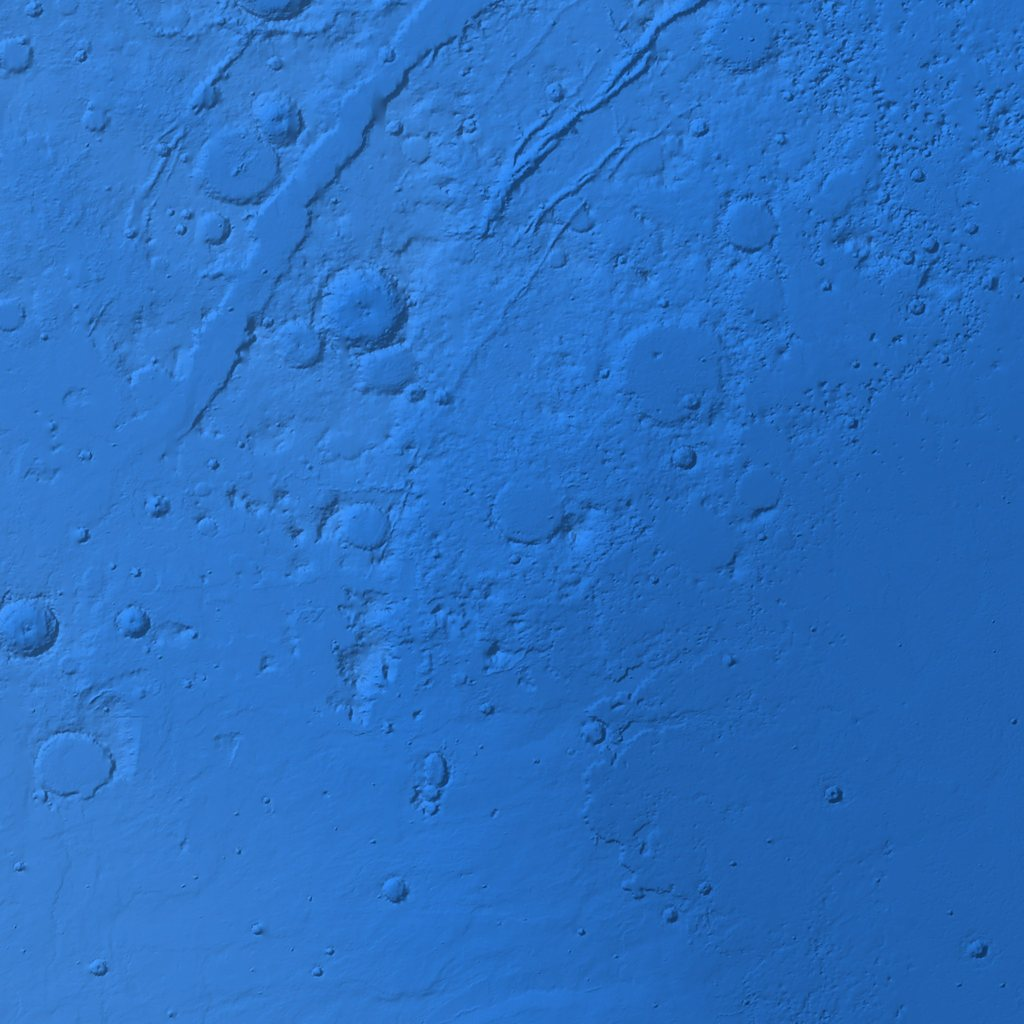
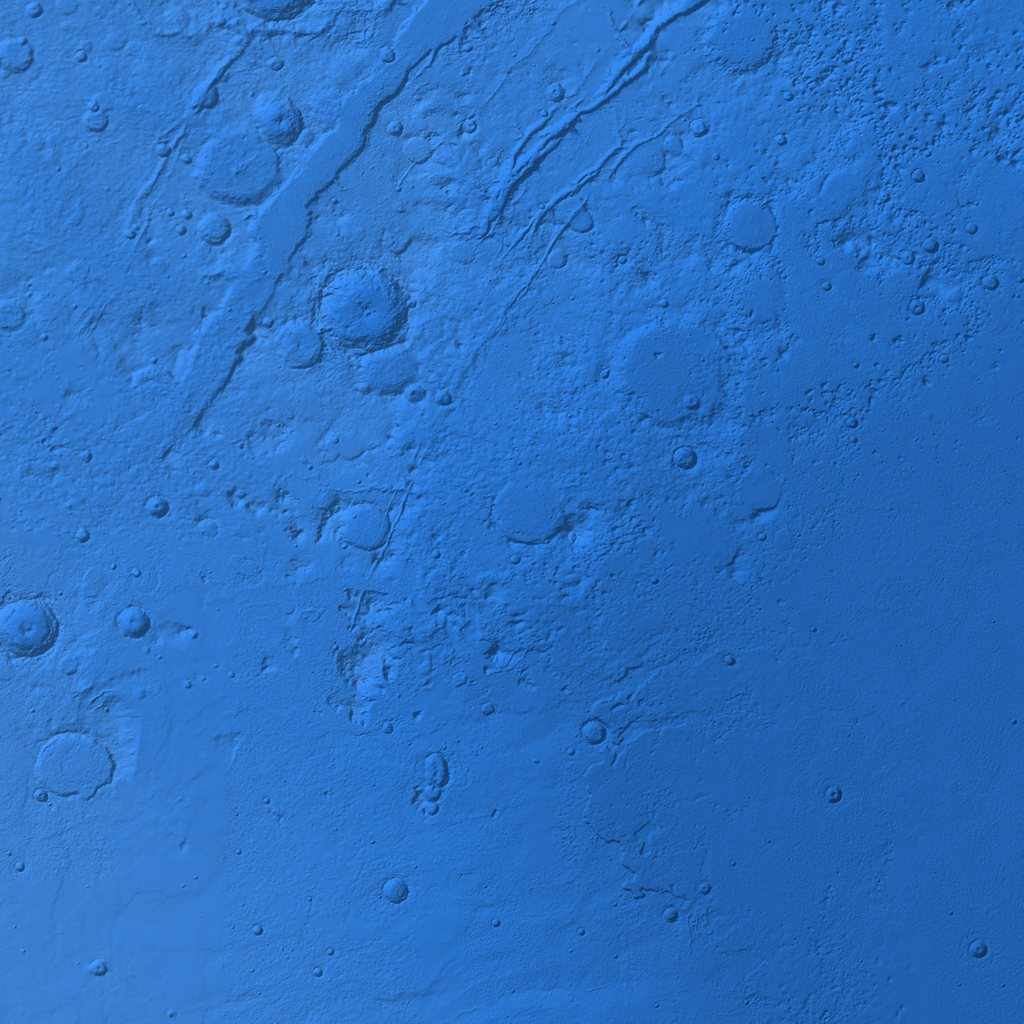
Add ESA Mars Express HRSC relief around Jezero
The regional relief and elevation colours on the globe (the 12 x 12 deg
patch around Jezero and Isidis) now come from the USGS HRSC and MOLA
blended DEM v2 (200 m), which merges ESA Mars Express HRSC stereo DTMs
with MOLA, instead of MOLA alone (463 m). This adds a Space Agency
Partner dataset, which the NASA data usage criterion rewards.

Credited in DATA SOURCES, the layer panel, the README and the
submission data list.

Claude-Session: https://claude.ai/code/session_0141tgXk4JrBNUmJF1bHN5ER

diff --git a/src/ui/hud.js b/src/ui/hud.js
@@ -201,7 +201,7 @@ export class Hud {
           <span class="k">Centre</span><span class="v">18.40°N 77.60°E</span>
           <span class="k">Diameter</span><span class="v">≈ 45 km</span>
           <span class="k">Region</span><span class="v">Isidis Planitia rim</span>
-          <span class="k">Datasets</span><span class="v">7 layers · 5 missions</span>
+          <span class="k">Datasets</span><span class="v">7 layers · 6 missions</span>
         </div>
         <div class="btn-row"><button class="btn primary" id="btn-descend">▼ Descend to Jezero</button></div>
       </div>
@@ -265,7 +265,7 @@ export class Hud {
   orbitLegend(layer) {
     const L = $('orbit-legend');
     if (!L) return;
-    if (layer === 'topo') L.innerHTML = legendRamp('Elevation (MOLA, m)', 'linear-gradient(90deg,#0d366b,#184f95,#2a78d6,#5598e7,#9ec5f4,#eef6ff)', ['−8,200', '0', '+21,200']);
+    if (layer === 'topo') L.innerHTML = legendRamp('Elevation (MOLA; HRSC near Jezero, m)', 'linear-gradient(90deg,#0d366b,#184f95,#2a78d6,#5598e7,#9ec5f4,#eef6ff)', ['−8,200', '0', '+21,200']);
     else if (layer === 'thermal') L.innerHTML = legendRamp('Night-time IR brightness (relative)', 'linear-gradient(90deg,#3a1a06,#7a3510,#c05a1c,#ec8a45,#f9c79a,#fff0e0)', ['cools fast · dust', 'stays warm · rock']);
     else L.innerHTML = '<div class="legend"><div class="cap muted">Viking Orbiter mosaic, colour by NASA Ames. Seasonal frost shows at the poles.</div></div>';
   }
@@ -545,11 +545,12 @@ export class Hud {
   showSources() {
     $('modal-body').innerHTML = `
       <h2>DATA SOURCES & CREDITS</h2>
-      <p>Everything in Sol Atlas is real mission data. Nothing is hand-painted. Files were pulled from the public USGS Astrogeology archive (<code>asc-pds-services</code>) and processed by <code>scripts/build_data.py</code>.</p>
+      <p>Everything in Sol Atlas is real mission data, from NASA plus ESA's Mars Express. Nothing is hand-painted. Files were pulled from the public USGS Astrogeology archive (<code>asc-pds-services</code>) and processed by <code>scripts/build_data.py</code>.</p>
       <h3>ORBIT VIEW</h3>
       <table><tr><th>LAYER</th><th>MISSION / INSTRUMENT</th><th>PRODUCT</th></tr>
         <tr><td>Visible colour</td><td>Viking Orbiter 1 & 2</td><td>MDIM 2.1 global mosaic, recoloured by NASA Ames (232 m)</td></tr>
         <tr><td>Topography / relief</td><td>Mars Global Surveyor · MOLA</td><td>MOLA 128/64 ppd merged DEM (463 m)</td></tr>
+        <tr><td>Relief around Jezero and Isidis (zoomed in)</td><td>ESA Mars Express · HRSC, with MGS MOLA</td><td>HRSC and MOLA blended DEM v2, 200 m (USGS; HRSC data ESA/DLR/FU Berlin)</td></tr>
         <tr><td>Night thermal IR</td><td>Mars Odyssey · THEMIS</td><td>USGS controlled night-IR mosaic v2 (100 m)</td></tr></table>
       <h3>JEZERO CRATER</h3>
       <table><tr><th>LAYER</th><th>MISSION / INSTRUMENT</th><th>PRODUCT</th></tr>

diff --git a/src/core/assets.js b/src/core/assets.js
@@ -11,8 +11,8 @@ const TEXTURES = [
   ['g_topo', 'g_topo_4k.jpg', 'srgb', 'MGS MOLA hypsometric scan'],
   ['g_thermal', 'g_thermal_4k.jpg', 'srgb', 'Mars Odyssey THEMIS night-IR mosaic'],
   ['r_color', 'r_color.jpg', 'srgb', 'Isidis / Nili Planum regional colour'],
-  ['r_normal', 'r_normal.jpg', 'linear', 'Regional MOLA relief'],
-  ['r_topo', 'r_topo.jpg', 'srgb', 'Regional MOLA elevation'],
+  ['r_normal', 'r_normal.jpg', 'linear', 'Regional HRSC + MOLA relief'],
+  ['r_topo', 'r_topo.jpg', 'srgb', 'Regional HRSC + MOLA elevation'],
   ['r_thermal', 'r_thermal.jpg', 'srgb', 'Regional THEMIS thermal'],
   ['c_decal', 'c_decal.jpg', 'srgb', 'Jezero orbital decal'],
   ['c_visible', 'c_visible.jpg', 'srgb', 'MRO CTX 5 m orthomosaic · Jezero (JPL)'],

diff --git a/src/orbit/OrbitView.js b/src/orbit/OrbitView.js
@@ -12,7 +12,7 @@ const MAX_ALT = 7.0;
 
 export const ORBIT_LAYERS = [
   { id: 'visible', key: '1', name: 'Visible colour', src: 'Viking Orbiter · MDIM 2.1 (NASA Ames)' },
-  { id: 'topo', key: '2', name: 'Topography', src: 'Mars Global Surveyor · MOLA' },
+  { id: 'topo', key: '2', name: 'Topography', src: 'MGS · MOLA + ESA Mars Express · HRSC' },
   { id: 'thermal', key: '3', name: 'Night thermal IR', src: 'Mars Odyssey · THEMIS' },
 ];
 

diff --git a/scripts/build_data.py b/scripts/build_data.py
@@ -13,7 +13,9 @@ Nothing here is hand-painted: every pixel comes from a NASA mission dataset.
     - MGS MOLA 128/64 ppd elevation                            -> g_normal_4k.jpg, g_topo_4k.jpg, g_elev.png
     - Mars Odyssey THEMIS night-IR controlled mosaic (100 m)   -> g_thermal_4k.jpg
   Region (Isidis / Jezero, 12 x 12 deg decal on the globe)
-    - same three sources at full resolution                    -> r_*.jpg
+    - Viking colour and THEMIS at full resolution              -> r_color.jpg, r_thermal.jpg
+    - HRSC + MOLA blended DEM (200 m; ESA Mars Express HRSC
+      blended with MGS MOLA by USGS)                           -> r_normal.jpg, r_topo.jpg
   Crater (Jezero, ~89 x 101 km)
     - Mars 2020 Science Investigation CTX ortho mosaic (5 m)   -> c_visible.jpg
     - Mars 2020 Science Investigation CTX DEM (20 m)           -> c_height.png, c_normal.jpg, c_slope.png
@@ -38,6 +40,7 @@ import urllib.request
 
 import numpy as np
 import rasterio
+import rasterio.windows
 from PIL import Image
 from rasterio.crs import CRS
 from rasterio.enums import Resampling
@@ -63,6 +66,7 @@ R_MARS = 3396190.0  # IAU Mars 2000 sphere (m)
 SRC = {
     "color": "wms_basemaps/Mars/MDIM21_AMESColor/MDIM21_AMES_recolor_dd360_jpeg_cog.tif",
     "mola": "wms_basemaps/Mars/MOLA/mola128_mola64_merge_90Nto90S_SimpleC_clon0_cog.tif",
+    "hrsc_mola": "mosaic/Mars/HRSC_MOLA_Blend/Mars_HRSC_MOLA_BlendDEM_Global_200mp_v2.tif",
     "themis_night": "wms_basemaps/Mars/THEMIS_USGS/THEMIS_NightIR_ControlledMosaics_100m_v2_oct2018_cog.tif",
     "ctx_ortho": "mosaic/mars2020_trn/CTX/ScienceInvestigationMaps_JPL/M20_JezeroCrater_CTXortho_mosaic_5m.tif",
     "ctx_dem": "mosaic/mars2020_trn/CTX/ScienceInvestigationMaps_JPL/M20_JezeroCrater_CTXDEM_20m.tif",
@@ -325,8 +329,13 @@ def stage_region(m):
             bands.append(dst)
     save_rgb(np.dstack(bands) / 255.0, "r_color.jpg", 88)
 
-    log("REGION MOLA")
-    h = warp(remote("mola"), (H, W), tr, GEO_CRS, Resampling.cubic)
+    log("REGION HRSC + MOLA blend")
+    # Same lon/lat sphere as the region grid, so a windowed read is enough. The file is
+    # 11 GB and untiled (one strip per row); only the ~25 MB under the window is fetched.
+    with rasterio.open(remote("hrsc_mola")) as d:
+        win = rasterio.windows.from_bounds(r["lon0"], r["lat0"], r["lon1"], r["lat1"], d.transform)
+        h = d.read(1, window=win, out_shape=(H, W), resampling=Resampling.average,
+                   masked=True).astype(np.float32).filled(np.nan)
     h = fill_nodata(np.nan_to_num(h), np.isnan(h))
     dx = (r["lon1"] - r["lon0"]) / W * KX
     dy = (r["lat1"] - r["lat0"]) / H * KY

diff --git a/README.md b/README.md
@@ -8,7 +8,7 @@ The SOL Explorers · NASA Space Apps Challenge 2026 · challenge: *Interplanetar
 
 ![Sol Atlas: Mars from orbit with landing sites and data layers](docs/screenshots/01-orbit.jpg)
 
-In *The Martian*, Mark Watney survives by doing the maths himself: oxygen, distance, daylight, terrain. Sol Atlas does that maths for the first crews. It stacks data from five NASA missions on one 3D map, finds the safest route for a walk on foot to any point you pick, and checks whether the astronaut gets home with oxygen to spare. If the plan comes up short, the EVA simulation shows exactly where the suit runs dry. Then you can put on the helmet and walk the real terrain at eye height.
+In *The Martian*, Mark Watney survives by doing the maths himself: oxygen, distance, daylight, terrain. Sol Atlas does that maths for the first crews. It stacks data from five NASA missions and ESA's Mars Express on one 3D map, finds the safest route for a walk on foot to any point you pick, and checks whether the astronaut gets home with oxygen to spare. If the plan comes up short, the EVA simulation shows exactly where the suit runs dry. Then you can put on the helmet and walk the real terrain at eye height.
 
 ![Helmet view: the delta-front scarp in Jezero at true scale, from the HiRISE 1 m elevation model](docs/screenshots/08-helmet-view.jpg)
 
@@ -121,6 +121,7 @@ Every layer is real mission data. Nothing is hand-painted. The exact files, with
 | Orbit | Visible colour | Viking Orbiters | MDIM 2.1 global mosaic, NASA Ames colour (232 m/px) |
 | Orbit | Topography, relief | Mars Global Surveyor · MOLA | MOLA 128/64 ppd merged DEM (463 m/px) |
 | Orbit | Night thermal IR | Mars Odyssey · THEMIS | USGS controlled night-IR mosaic (100 m/px) |
+| Orbit, zoomed in on Jezero and Isidis | Relief, elevation colours | **ESA Mars Express · HRSC**, with MGS MOLA | HRSC and MOLA blended DEM v2, 200 m/px (USGS; HRSC data ESA/DLR/FU Berlin) |
 | Crater | Visible | MRO · CTX | Mars 2020 Science Investigation CTX orthomosaic, 5 m/px (JPL) |
 | Crater | Elevation, slope, contours | MRO · CTX stereo | Mars 2020 Science Investigation CTX DEM, 20 m/px (JPL) |
 | Crater + zone | Ground firmness | Mars Odyssey · THEMIS | Night-IR mosaic as a thermal-inertia proxy, 100 m/px |
@@ -360,6 +361,7 @@ The code, data-processing scripts and documentation of Sol Atlas were written wi
 - NASA / JPL-Caltech / Arizona State University (THEMIS)
 - NASA / GSFC (MOLA)
 - NASA / USGS (Viking MDIM 2.1, NASA Ames colour)
+- ESA / DLR / FU Berlin (Mars Express HRSC), in the USGS HRSC and MOLA blended DEM (Fergason, Hare & Laura 2018)
 - USGS Astrogeology Science Center (mosaics and DTMs)
 - Mars 2020 science maps: Mangold et al. (2021), *Science*
 - Perseverance waypoints: NASA/JPL-Caltech MMGIS, archived daily in [stiles/mars-perseverance-waypoints](https://github.com/stiles/mars-perseverance-waypoints)

diff --git a/docs/SUBMISSION_DATA.md b/docs/SUBMISSION_DATA.md
@@ -38,8 +38,9 @@ All NASA map files were read directly from the USGS Astrogeology Science Center'
 ## Paste into "Space Agency Partner & Other Data"
 
 ```
+- ESA Mars Express, HRSC (High Resolution Stereo Camera; ESA/DLR/FU Berlin): elevation models of the Jezero and Isidis region, used through the USGS "Mars HRSC MOLA Blended DEM Global 200m v2" (Fergason, Hare & Laura 2018), which merges HRSC stereo DTMs with NASA's MOLA. Relief and elevation colours on the globe when zoomed in on Jezero (200 m instead of MOLA's 463 m).
+  https://asc-pds-services.s3.us-west-2.amazonaws.com/mosaic/Mars/HRSC_MOLA_Blend/Mars_HRSC_MOLA_BlendDEM_Global_200mp_v2.tif
 - U.S. Geological Survey (USGS) Astrogeology Science Center: processed, controlled and archived the NASA maps above (CTX and HiRISE mosaics and elevation models, the THEMIS controlled mosaic), served from its public "asc-pds-services" archive on AWS.
-- No data from non-US space agencies is used yet.
 - stiles/mars-perseverance-waypoints (GitHub): a daily archive of NASA/JPL's Perseverance waypoint feed, used because the NASA site could not be reached from our build machine. The positions are NASA's, unchanged.
   https://github.com/stiles/mars-perseverance-waypoints
 - Scientific references: Pandolf, Givoni & Goldman (1977), load-carriage metabolic equation, used for the EVA oxygen model; Tobler's hiking function (walking speed vs slope); Mangold et al. (2021), Science, Jezero delta geology.
@@ -55,6 +56,7 @@ All NASA map files were read directly from the USGS Astrogeology Science Center'
 | App feature | NASA data | Processing (in `scripts/build_data.py`) |
 |---|---|---|
 | Globe colour | Viking MDIM 2.1 (NASA Ames colour) | Resampled to 2k / 4k / 8k by device |
+| Regional relief around Jezero and Isidis | ESA Mars Express HRSC + MGS MOLA blended DEM, 200 m (USGS) | 12° × 12° window read at full resolution, averaged to 2048², normal map and elevation ramp |
 | Globe relief, elevation colours | MGS MOLA 128/64 ppd DEM | Normal map (relief ×18), blue elevation ramp, 1024 × 512 elevation grid for readouts |
 | Night thermal / ground firmness | Mars Odyssey THEMIS night IR 100 m | Clipped to ±54° (streaky edges), gentle contrast curve, orange ramp |
 | Crater imagery | MRO CTX 5 m orthomosaic (JPL) | 4096 × 4658 px (~22 m/px), tinted with the Viking colour of the same ground |

diff --git a/docs/SUBMISSION_CHECKLIST.md b/docs/SUBMISSION_CHECKLIST.md
@@ -41,7 +41,7 @@ The guide flags a clash for Video 2 (a "1 November" date vs the 13 Nov 18:30 run
 ## Project page, field by field (drafts to adapt)
 
 **High-Level Summary**
-> Sol Atlas is a 3D Mars map that plans a walk on foot for the first crews and checks whether the astronaut gets home with oxygen to spare. It stacks data from five NASA missions (Viking, MGS MOLA, Mars Odyssey THEMIS, MRO CTX and HiRISE, Mars 2020) in one view, from the whole planet down to a 5 × 5 km zone of Jezero Crater at 25 cm per pixel. Pick any point and it finds the route that uses the least oxygen while avoiding slopes too steep to walk, using a published walking-effort model scaled to Mars gravity. It marks the point of no return and, if the plan is short, the exact spot where the suit runs dry, and shows that a mayday would take about 14 minutes to reach Earth. It runs in any browser, on phones too, with no install and no API key.
+> Sol Atlas is a 3D Mars map that plans a walk on foot for the first crews and checks whether the astronaut gets home with oxygen to spare. It stacks data from five NASA missions (Viking, MGS MOLA, Mars Odyssey THEMIS, MRO CTX and HiRISE, Mars 2020) and ESA's Mars Express (HRSC) in one view, from the whole planet down to a 5 × 5 km zone of Jezero Crater at 25 cm per pixel. Pick any point and it finds the route that uses the least oxygen while avoiding slopes too steep to walk, using a published walking-effort model scaled to Mars gravity. It marks the point of no return and, if the plan is short, the exact spot where the suit runs dry, and shows that a mayday would take about 14 minutes to reach Earth. It runs in any browser, on phones too, with no install and no API key.
 > 240-second video: *(link)* · Code: https://github.com/saracen66/the-sol-explorers · Live: https://sol-atlas.netlify.app
 
 **Project Demo:** the 30-second video link.
